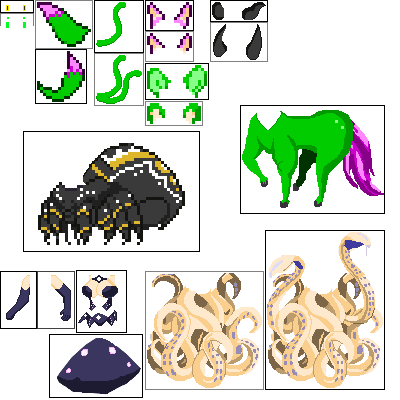
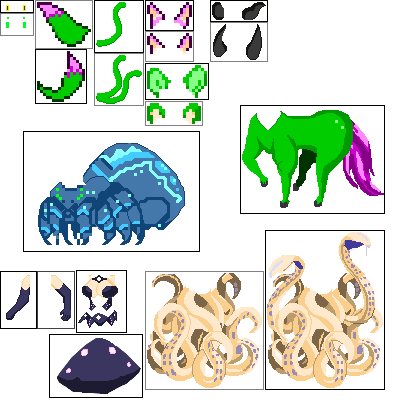
chitin2

Changed region(s): [[0.09, 0.36, 0.48, 0.63], [0.06, 0.06, 0.09, 0.09], [0.0, 0.06, 0.03, 0.09]]

diff --git a/cocspred/spred.js b/cocspred/spred.js
@@ -1025,11 +1025,11 @@ var spred;
             addCompositeView([
                 'hair/gorgon', 'hair_bg/gorgon',
                 'eyes/cat',
-                'head/scales2', 'face/human_fang',
-                'breasts/Dscales2',
-                'arms_bg/scales2', 'arms/scales2',
+                'head/scales_p', 'face/human_fang',
+                'breasts/Dscales_p',
+                'arms_bg/scales_p', 'arms/scales_p',
                 'legs/naga',
-                'torso/scales2'
+                'torso/scales_p'
             ]);
             addCompositeView([
                 'horns/2large',
@@ -1042,6 +1042,26 @@ var spred;
                 'tail/reptile',
                 'wings/scales_right',
                 'wings_bg/scales_left',
+            ]);
+            addCompositeView([
+                'antennae/bee',
+                'eyes/sandtrap',
+                'head/bee', 'face/insect',
+                'breasts/Dbee',
+                'arms/bee', 'arms_bg/bee',
+                'legs/bee',
+                'torso/bee',
+                'tail/bee_abdomen',
+                'wings/bee'
+            ]);
+            addCompositeView([
+                'horns/2large',
+                'eyes/spider',
+                'head/chitin', 'face/spider',
+                'breasts/Dchitin',
+                'arms/chitin2', 'arms_bg/chitin2',
+                'legs_bg/drider',
+                'torso/chitin'
             ]);
             $('#ClipboardGrabber').on('paste', e => {
                 e.stopPropagation();
